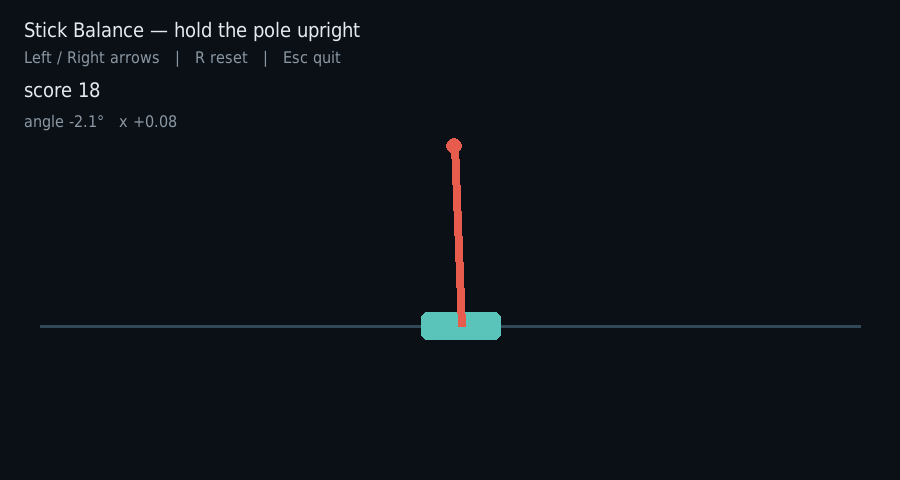
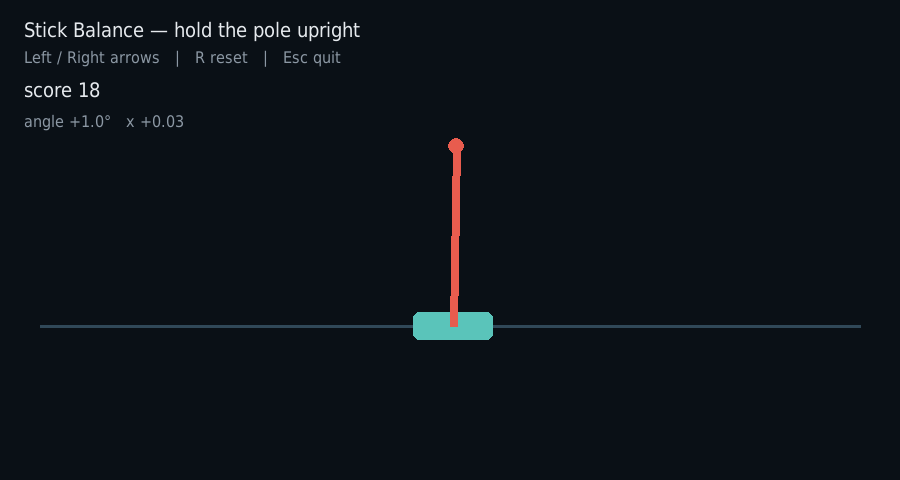
feat: add bounded damped cart-pole physics

diff --git a/tests/test_physics.py b/tests/test_physics.py
@@ -1,4 +1,5 @@
-from math import radians
+from math import isfinite, radians
+import random
 
 from stick_balance.physics import Action, CartPoleEnv, PoleState
 
@@ -48,6 +49,28 @@ def test_cart_position_does_not_end_run_before_pole_is_horizontal():
     assert done is False
 
 
+def test_cart_is_clamped_at_both_track_boundaries():
+    for action, expected_x in (
+        (Action.LEFT, -CartPoleEnv.x_limit),
+        (Action.RIGHT, CartPoleEnv.x_limit),
+    ):
+        env = CartPoleEnv(seed=0)
+        env.state = PoleState(x=0.0, x_dot=0.0, theta=0.0, theta_dot=0.0)
+        for _ in range(500):
+            env.step(action)
+        assert env.state.x == expected_x
+        assert env.state.x_dot == 0.0
+
+
+def test_cart_drag_slows_coasting_after_input_is_released():
+    env = CartPoleEnv(seed=0)
+    env.state = PoleState(x=0.0, x_dot=2.0, theta=0.0, theta_dot=0.0)
+    initial_speed = abs(env.state.x_dot)
+    for _ in range(100):
+        env.step(Action.NONE)
+    assert abs(env.state.x_dot) < initial_speed * 0.1
+
+
 def test_physics_keeps_advancing_with_no_input_after_fall():
     env = CartPoleEnv(seed=0)
     env.state = PoleState(x=0.0, x_dot=0.0, theta=radians(90), theta_dot=1.0)
@@ -55,6 +78,14 @@ def test_physics_keeps_advancing_with_no_input_after_fall():
     after, _, done = env.step(Action.NONE)
     assert done is True
     assert after != before
+
+
+def test_pole_drag_settles_a_fallen_pole_instead_of_spinning_forever():
+    env = CartPoleEnv(seed=0)
+    env.state = PoleState(x=0.0, x_dot=0.0, theta=radians(90), theta_dot=8.0)
+    for _ in range(1500):
+        env.step(Action.NONE)
+    assert abs(env.state.theta_dot) < 0.01
 
 
 def test_upright_idle_is_not_immediately_done():
@@ -79,3 +110,18 @@ def test_step_is_deterministic_from_same_state():
     assert sa == sb
     assert ra == rb
     assert da is db
+
+
+def test_long_random_run_stays_finite_and_inside_track():
+    rng = random.Random(42)
+    env = CartPoleEnv(seed=42)
+    env.reset()
+    for _ in range(10_000):
+        state, _, _ = env.step(rng.choice(list(Action)))
+        assert -env.x_limit <= state.x <= env.x_limit
+        assert all(isfinite(value) for value in (
+            state.x,
+            state.x_dot,
+            state.theta,
+            state.theta_dot,
+        ))

diff --git a/src/stick_balance/physics.py b/src/stick_balance/physics.py
@@ -2,7 +2,7 @@ from __future__ import annotations
 
 from dataclasses import dataclass
 from enum import IntEnum
-from math import cos, pi, sin
+from math import atan2, cos, pi, sin
 import random
 
 
@@ -29,7 +29,10 @@ class CartPoleEnv:
     pole_length = 0.5
     force_mag = 10.0
     dt = 0.02
-    x_limit = 2.4
+    # Keep the cart and full pole inside the rendered track at every angle.
+    x_limit = 1.6
+    cart_drag = 1.2
+    pole_drag = 0.8
     # A run is lost only once the pole reaches horizontal (90 degrees).
     theta_limit = pi / 2
 
@@ -64,10 +67,27 @@ class CartPoleEnv:
         )
         xacc = temp - polemass_length * thetaacc * costheta / total_mass
 
-        x = x + self.dt * x_dot
+        # Viscous drag dissipates energy instead of allowing endless coasting
+        # or rotation. Semi-implicit Euler is substantially more stable for
+        # this damped mechanical system than updating position first.
+        xacc -= self.cart_drag * x_dot
+        thetaacc -= self.pole_drag * theta_dot
         x_dot = x_dot + self.dt * xacc
-        theta = theta + self.dt * theta_dot
         theta_dot = theta_dot + self.dt * thetaacc
+        x = x + self.dt * x_dot
+        theta = theta + self.dt * theta_dot
+
+        # The visible track is a hard, inelastic stop. Cancel only velocity
+        # pointing through a wall so the cart can immediately move away again.
+        if x >= self.x_limit:
+            x = self.x_limit
+            x_dot = min(x_dot, 0.0)
+        elif x <= -self.x_limit:
+            x = -self.x_limit
+            x_dot = max(x_dot, 0.0)
+
+        # Keep angles numerically bounded while preserving the same direction.
+        theta = atan2(sin(theta), cos(theta))
         self.state = PoleState(x, x_dot, theta, theta_dot)
 
         done = abs(theta) >= self.theta_limit

diff --git a/tests/test_render.py b/tests/test_render.py
@@ -1,7 +1,7 @@
 from pathlib import Path
 
-from stick_balance.physics import PoleState
-from stick_balance.render import snapshot
+from stick_balance.physics import CartPoleEnv, PoleState
+from stick_balance.render import POLE_PX, SCALE, WIDTH, snapshot
 
 
 def test_snapshot_writes_png(tmp_path: Path):
@@ -14,3 +14,8 @@ def test_snapshot_writes_png(tmp_path: Path):
     )
     assert path.is_file()
     assert path.stat().st_size > 1000
+
+
+def test_full_pole_stays_inside_window_at_cart_limits():
+    furthest_endpoint = WIDTH / 2 + CartPoleEnv.x_limit * SCALE + POLE_PX
+    assert furthest_endpoint <= WIDTH

diff --git a/src/stick_balance/screenshots.py b/src/stick_balance/screenshots.py
@@ -28,7 +28,12 @@ def main() -> list[Path]:
     p2 = out / "02-correcting.png"
     snapshot(str(p2), env.state, score=score, done=done)
 
-    env.state = PoleState(x=0.3, x_dot=0.4, theta=radians(90), theta_dot=1.2)
+    env.state = PoleState(
+        x=env.x_limit,
+        x_dot=0.0,
+        theta=radians(90),
+        theta_dot=1.2,
+    )
     p3 = out / "03-fallen.png"
     snapshot(str(p3), env.state, score=score, done=True)
 

diff --git a/README.md b/README.md
@@ -13,7 +13,7 @@ pip install pygame numpy pytest
 PYTHONPATH=src python -m stick_balance.game
 ```
 
-Keys: `←` / `→` or `A` / `D` to push the cart. The run ends when the pole reaches 90° (horizontal). Physics keeps running after a fall, but movement controls stay locked until `R` resets. `Esc` quits.
+Keys: `←` / `→` or `A` / `D` to push the cart. The cart and pole remain inside the window; horizontal drag prevents endless coasting. The run ends when the pole reaches 90° (horizontal). Physics keeps running with angular damping after a fall, but movement controls stay locked until `R` resets. `Esc` quits.
 
 Headless screenshots:
 
